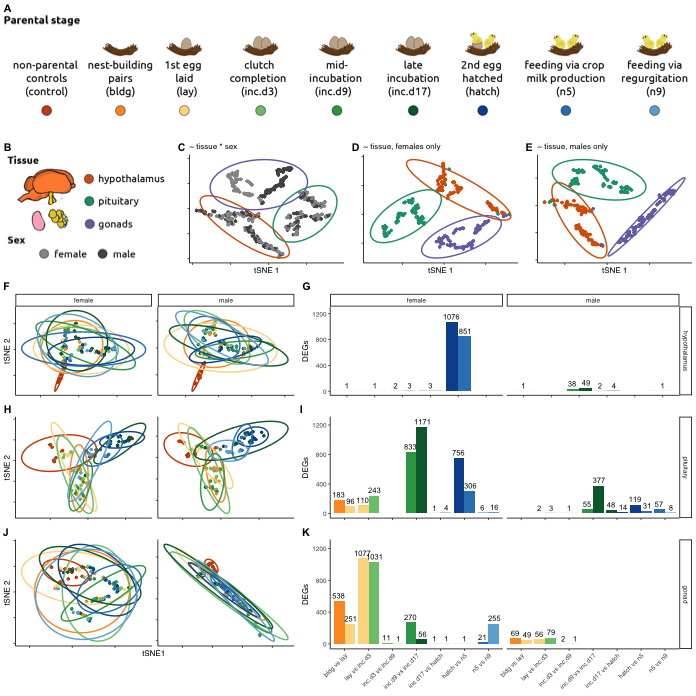
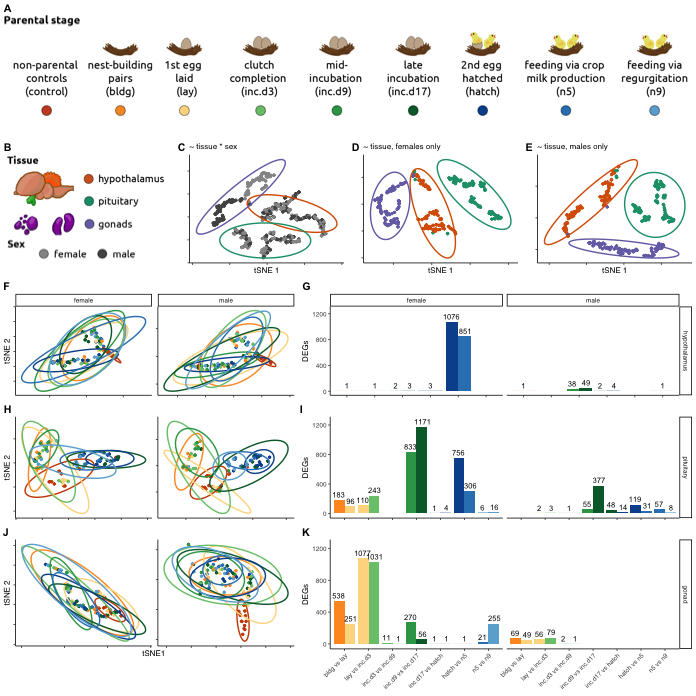
new HPG skematic

diff --git a/analysis/figure-1.md b/analysis/figure-1.md
@@ -537,6 +537,10 @@ make figure
     egi <- plot_grid(e,g,i, nrow = 3, rel_heights = c(1,1,1.4),
                      labels = c("F", "H", "J"), label_size = 8)
 
+    ## Warning in MASS::cov.trob(data[, vars]): Probable convergence failure
+
+    ## Warning in MASS::cov.trob(data[, vars]): Probable convergence failure
+
     # hyp
     f <- makebargraph("hypothalamus","DEGs", 0, 1250) + 
       theme(axis.text.x = element_blank(), 
